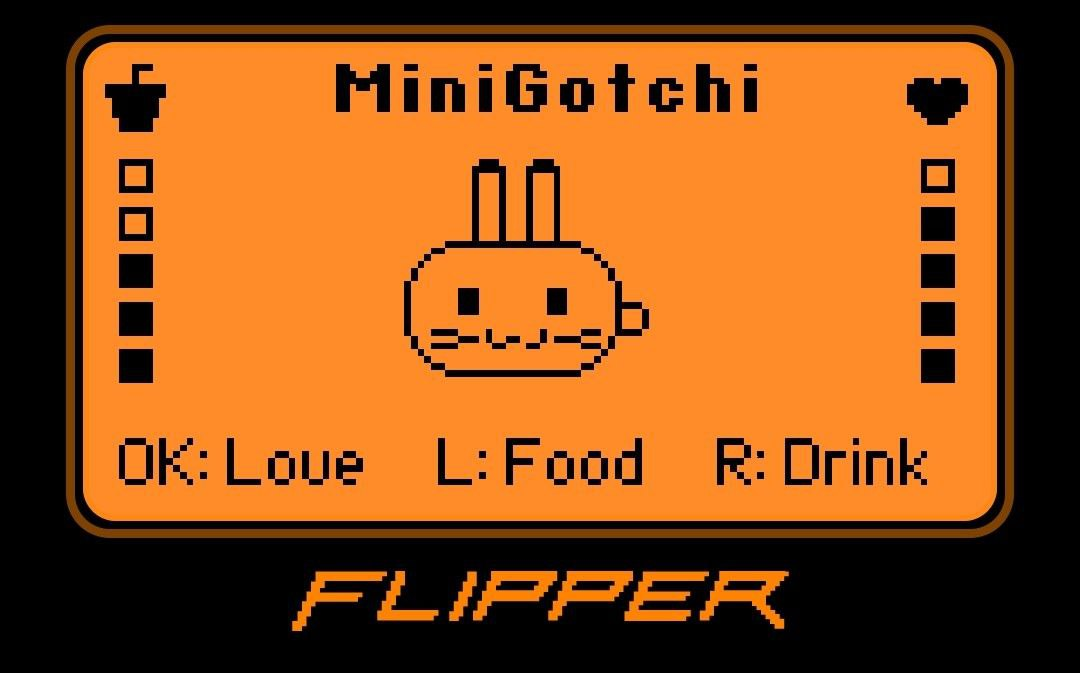
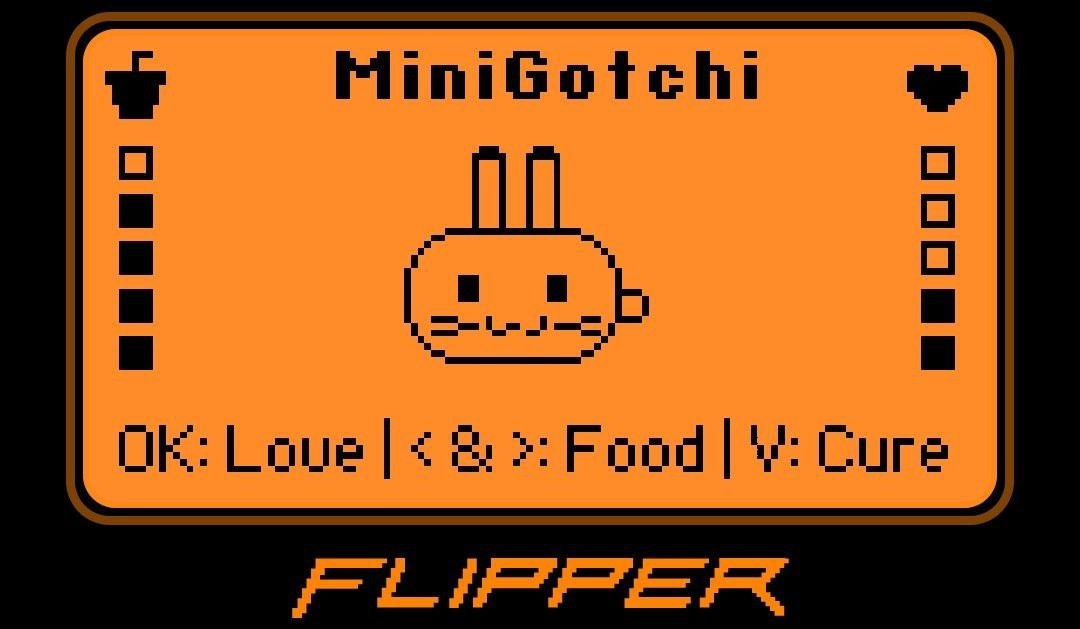
feat: sistema de adoecimento

diff --git a/core/mg_game.c b/core/mg_game.c
@@ -10,6 +10,8 @@
 
 #define HUNGER_INTERVAL_SEC (60u * 60u) // 1h por barrinha
 #define AFFECTION_INTERVAL_SEC (2u * 60u * 60u)  // 2h por barrinha
+#define SICK_AFTER_SEC (3u * 60u * 60u) // 3h zerado = doente
+#define CURE_ANIM_MS   (1500u)          // animação da injeção
 
 static uint32_t mg_now_epoch(void) {
     return furi_hal_rtc_get_timestamp();
@@ -52,21 +54,64 @@ void mg_init(MinigotchiState* state) {
     // sono
     state->sleeping = mg_is_sleep_time();
 
+    // doença
+    state->sick = false;
+    state->hunger_zero_since_ts = 0;
+    state->affection_zero_since_ts = 0;
+
+    // cura
+    state->curing = false;
+    state->cure_end_tick = 0;
+    state->cured_event = false;
+
     // evolução
     mg_evolution_init(state, now_ts);
+}
+
+static void mg_enter_sick(MinigotchiState* state) {
+    state->sick = true;
+
+    state->position_index = 1;
+    state->petting = false;
+    state->eating = false;
+    state->current_food = MinigotchiFoodNone;
+
+    state->hungry = true;
+    state->lonely = true;
 }
 
 void mg_update(MinigotchiState* state, uint32_t now_tick) {
     uint32_t now_ts = mg_now_epoch();
 
+    state->cured_event = false;
+
     state->sleeping = mg_is_sleep_time();
 
+    // Cura da doença
+    if(state->curing && now_tick >= state->cure_end_tick) {
+        state->curing = false;
+        state->sick = false;
+        // aumehta barrinhas e reseta estados
+        if(state->hunger_level < 2) state->hunger_level = 2;
+        if(state->affection_level < 2) state->affection_level = 2;
+        state->last_hunger_update_ts = now_ts;
+        state->last_affection_update_ts = now_ts;
+        state->hunger_zero_since_ts = 0;
+        state->affection_zero_since_ts = 0;
+        state->hungry = (state->hunger_level == 0);
+        state->lonely = (state->affection_level == 0);
+
+        state->cured_event = true;
+    }
+
+    // 0) Dormindo
     if(state->sleeping) {
-        state->position_index = 1;            
-        state->petting        = false;
-        state->eating         = false;
-        state->current_food   = MinigotchiFoodNone;
-        state->hungry         = false;
+        state->position_index = 1;
+        state->petting = false;
+        state->eating = false;
+        state->current_food = MinigotchiFoodNone;
+        state->hungry = false;
+        state->lonely = false;
 
         mg_evolution_update(state, now_ts);
         return;
@@ -85,6 +130,16 @@ void mg_update(MinigotchiState* state, uint32_t now_tick) {
         state->position_index += state->direction;
         if(state->position_index < 0) state->position_index = 0;
         if(state->position_index > 2) state->position_index = 2;
+    }
+
+    if(state->sick || state->curing) {
+        state->position_index = 1;
+        state->petting = false;
+        state->eating = false;
+        state->current_food = MinigotchiFoodNone;
+
+        mg_evolution_update(state, now_ts);
+        return;
     }
 
     // 2) timers de carinho
@@ -140,7 +195,25 @@ void mg_update(MinigotchiState* state, uint32_t now_tick) {
     // bool lonely: só é verdade quando está na última barrinha
     state->lonely = (state->affection_level == 0);
 
-    // 6) evolução (mudança de forma às 9h)
+
+    // 6) doença
+    if(state->hunger_level == 0) {
+        if(state->hunger_zero_since_ts == 0) state->hunger_zero_since_ts = now_ts;
+        else if((now_ts - state->hunger_zero_since_ts) >= SICK_AFTER_SEC) mg_enter_sick(state);
+    } else {
+        state->hunger_zero_since_ts = 0;
+    }
+
+    if(!state->sick) {
+        if(state->affection_level == 0) {
+            if(state->affection_zero_since_ts == 0) state->affection_zero_since_ts = now_ts;
+            else if((now_ts - state->affection_zero_since_ts) >= SICK_AFTER_SEC) mg_enter_sick(state);
+        } else {
+            state->affection_zero_since_ts = 0;
+        }
+    }
+
+    // 7) evolução (mudança de forma às 9h)
     mg_evolution_update(state, now_ts);
 }
 
@@ -177,4 +250,13 @@ void mg_feed(MinigotchiState* state, uint32_t now_tick, MinigotchiFood food) {
     }
     state->last_hunger_update_ts = now_ts;
     state->hungry = (state->hunger_level == 0);
+}
+
+void mg_cure(MinigotchiState* state, uint32_t now_tick) {
+    if(state->sleeping) return;
+    if(!state->sick) return;
+    if(state->curing) return;
+
+    state->curing = true;
+    state->cure_end_tick = now_tick + CURE_ANIM_MS;
 }

diff --git a/ui/mg_ui_body.c b/ui/mg_ui_body.c
@@ -32,6 +32,31 @@ static void draw_mouth_uwu(Canvas* canvas, int center_x, int top_y) {
     }
 }
 
+#define P_W 11
+#define P_H 4
+
+// Boquinha :-P
+// '.' = vazio, '#' = pixel aceso
+static const char* p_sprite[P_H] = {
+    "###########", 
+    "......#.#.#", 
+    "......#...#", 
+    "......#####", 
+};
+
+static void draw_mouth_p(Canvas* canvas, int center_x, int top_y) {
+    int origin_x = center_x - (P_W / 2);
+
+    for(int y = 0; y < P_H; y++) {
+        const char* row = p_sprite[y];
+        for(int x = 0; x < P_W; x++) {
+            if(row[x] == '#') {
+                canvas_draw_dot(canvas, origin_x + x, top_y + y);
+            }
+        }
+    }
+}
+
 void mg_ui_body_draw(Canvas* canvas,
                      int x,
                      int y,
@@ -40,7 +65,9 @@ void mg_ui_body_draw(Canvas* canvas,
                      bool eating,
                      bool hungry,
                      bool lonely,
-                     bool sleeping) {   
+                     bool sleeping,
+                     bool sick,
+                     bool curing) {   
     int draw_y = y;
 
     // formas 5, 6 e 7 um pouco mais embaixo (coelho maior)
@@ -120,6 +147,19 @@ void mg_ui_body_draw(Canvas* canvas,
         canvas_draw_line(canvas, rx1,     top_y2, rx2,     top_y2);
     }
 
+    // Bigode (só nas formas finais)
+    if(form == MinigotchiFormStage6 || form == MinigotchiFormStage7) {
+        int wy = draw_y + 4; // altura central da boca
+
+        // lado esquerdo
+        canvas_draw_line(canvas, x - 12, wy - 1, x - 6, wy);
+        canvas_draw_line(canvas, x - 12, wy + 1, x - 6, wy);
+
+        // lado direito
+        canvas_draw_line(canvas, x + 6,  wy, x + 12, wy - 1);
+        canvas_draw_line(canvas, x + 6,  wy, x + 12, wy + 1);
+    }
+
     // OLHOS
     // Mimindo -.-
     if(sleeping) {
@@ -130,6 +170,20 @@ void mg_ui_body_draw(Canvas* canvas,
         canvas_draw_box(canvas, x + 3, eye_y, 4, 1);
         // boca 
         canvas_draw_box(canvas, x + 0, 40, 2, 2);
+        return;
+    }
+
+    // Doente: cara "-.-" (não é a de dormir)
+    bool ill = sick || curing;
+    if(ill) {
+        int eye_y = draw_y - 2;
+
+        // '-' esquerda
+        canvas_draw_line(canvas, x - 7, eye_y, x - 3, eye_y);
+        // '.' centro
+        draw_mouth_p(canvas, x, y + 8);
+        // '-' direita
+        canvas_draw_line(canvas, x + 3, eye_y, x + 7, eye_y);
         return;
     }
 
@@ -154,19 +208,6 @@ void mg_ui_body_draw(Canvas* canvas,
         // olho direito
         canvas_draw_line(canvas, x + 5, eye_y - 1, x + 8, eye_y + 1);
         canvas_draw_line(canvas, x + 5, eye_y + 1, x + 8, eye_y - 1);
-    }
-
-    // Bigode (só nas formas finais)
-    if(form == MinigotchiFormStage6 || form == MinigotchiFormStage7) {
-        int wy = draw_y + 4; // altura central da boca
-
-        // lado esquerdo
-        canvas_draw_line(canvas, x - 12, wy - 1, x - 6, wy);
-        canvas_draw_line(canvas, x - 12, wy + 1, x - 6, wy);
-
-        // lado direito
-        canvas_draw_line(canvas, x + 6,  wy, x + 12, wy - 1);
-        canvas_draw_line(canvas, x + 6,  wy, x + 12, wy + 1);
     }
 
     // BOCA

diff --git a/ui/mg_ui_screen.c b/ui/mg_ui_screen.c
@@ -103,12 +103,12 @@ void mg_ui_screen_draw(Canvas* canvas, const MinigotchiState* state) {
     bool hungry   = state->hungry;     // fominha!
     bool sleeping = state->sleeping;   // mimindo!
     bool lonely = state->lonely;   // carente
+    bool sick   = state->sick;
+    bool curing = state->curing;
 
     // posição parada
     int index;
-    if(state->form == MinigotchiFormStage7 || sleeping) {
-        index = 1;
-    } else if(happy || eating || hungry || lonely) {
+    if (happy || eating || hungry || lonely || sick || curing || state->form == MinigotchiFormStage7) {
         index = 1;
     } else {
         index = state->position_index;
@@ -121,7 +121,12 @@ void mg_ui_screen_draw(Canvas* canvas, const MinigotchiState* state) {
     int y = 32; // largura central, aumenta pra baixo 
 
     // corpo / boca / coração / boca mastigando / cara triste
-    mg_ui_body_draw(canvas, x, y, state->form, happy, eating, hungry, lonely, sleeping);
+    mg_ui_body_draw(canvas, x, y, state->form, happy, eating, hungry, lonely, sleeping, sick, curing);
+
+    // injeção da cura
+    if(state->curing) {
+        mg_ui_draw_syringe(canvas, x + 3, y);
+    }
 
     // mão de carinho (só acordado)
     if(state->petting && !sleeping) {
@@ -129,7 +134,7 @@ void mg_ui_screen_draw(Canvas* canvas, const MinigotchiState* state) {
     }
 
     // comida (hambúrguer ou refrigerante) – só acordado
-    if(eating && !sleeping && state->current_food != MinigotchiFoodNone) {
+    if(eating && !sleeping && !sick && state->current_food != MinigotchiFoodNone) {
         int food_x = x - 8;   // posição da comida
         int food_y = y + 10;
         mg_ui_food_draw(canvas, food_x, food_y, state->current_food);
@@ -170,6 +175,6 @@ void mg_ui_screen_draw(Canvas* canvas, const MinigotchiState* state) {
     if(state->form == MinigotchiFormStage7) {
         canvas_draw_str(canvas, 35, 62, "OK: New game");
     } else {
-        canvas_draw_str(canvas, 2, 62, "OK: Love      L: Food      R: Drink");
+        canvas_draw_str(canvas, 2, 62, "OK: Love | < & >: Food | V: Cure");
     }
 }

diff --git a/ui/mg_ui_symbols.c b/ui/mg_ui_symbols.c
@@ -4,6 +4,7 @@
 
 #include <furi.h>
 #include "mg_ui_body.h"
+#include "../images/syringe_20x20.xbm"
 
 #define HEART_W 13
 #define HEART_H 9
@@ -101,4 +102,26 @@ static void draw_crux(Canvas* canvas, int origin_x, int origin_y) {
 
 void mg_ui_draw_crux(Canvas* canvas, int x, int y) {
     draw_crux(canvas, x, y);
+}
+
+void mg_ui_draw_syringe(Canvas* canvas, int x, int y) {
+    // animação pra cima/baixo
+    uint32_t t = furi_get_tick();
+    int bounce = ((t / 500) % 2) ? -2 : 2; // velocidade da animação
+    int hw = syringe_20x20_width;
+    int hh = syringe_20x20_height;
+    int radius = 10;
+
+    // desenha a seringa ao lado
+    int syringe_x = x + radius + 9;
+    int syringe_y = y - (hh / 2) + bounce;
+
+    canvas_draw_xbm(
+        canvas,
+        syringe_x,
+        syringe_y,
+        hw,
+        hh,
+        syringe_20x20_bits
+    );
 }

diff --git a/minigotchi_app.c b/minigotchi_app.c
@@ -168,12 +168,19 @@ int32_t minigotchi_app(void* p) {
                 minigotchi_save_state(&app->state);
                 app->state.running = false;
                 break;
+            case InputKeyDown:
+                mg_cure(&app->state, now);
+                break;
             default:
                 break;
             }
         }
 
         mg_update(&app->state, now);
+
+        if(app->state.cured_event) {
+            minigotchi_save_state(&app->state);
+        }
 
         if(app->state.form != last_form) {
             minigotchi_save_state(&app->state);

diff --git a/core/mg_state.h b/core/mg_state.h
@@ -48,6 +48,14 @@ typedef struct {
     bool lonely;
     // Sono
     bool sleeping;
+    // Doença
+    bool sick;               
+    uint32_t hunger_zero_since_ts; 
+    uint32_t affection_zero_since_ts; 
+    // Cura 
+    bool curing;
+    uint32_t cure_end_tick;  
+    bool cured_event;        
     // Evolução
     MinigotchiForm form;
     uint32_t birth_timestamp;

diff --git a/ui/mg_ui_body.h b/ui/mg_ui_body.h
@@ -16,4 +16,6 @@ void mg_ui_body_draw(Canvas* canvas,
                      bool eating,
                      bool hungry,
                      bool sleeping,
-                     bool lonely);
+                     bool lonely,
+                     bool sick,
+                     bool curing);

diff --git a/core/mg_game.h b/core/mg_game.h
@@ -11,3 +11,4 @@ void mg_init(MinigotchiState* state);
 void mg_update(MinigotchiState* state, uint32_t now);
 void mg_pet(MinigotchiState* state, uint32_t now);
 void mg_feed(MinigotchiState* state, uint32_t now, MinigotchiFood food);
+void mg_cure(MinigotchiState* state, uint32_t now_tick);

diff --git a/ui/mg_ui_symbols.h b/ui/mg_ui_symbols.h
@@ -13,3 +13,5 @@ void mg_ui_draw_small_heart(Canvas* canvas, int x, int y);
 void mg_ui_draw_big_heart(Canvas* canvas, int x, int y);
 
 void mg_ui_draw_crux(Canvas* canvas, int x, int y);
+
+void mg_ui_draw_syringe(Canvas* canvas, int x, int y);
